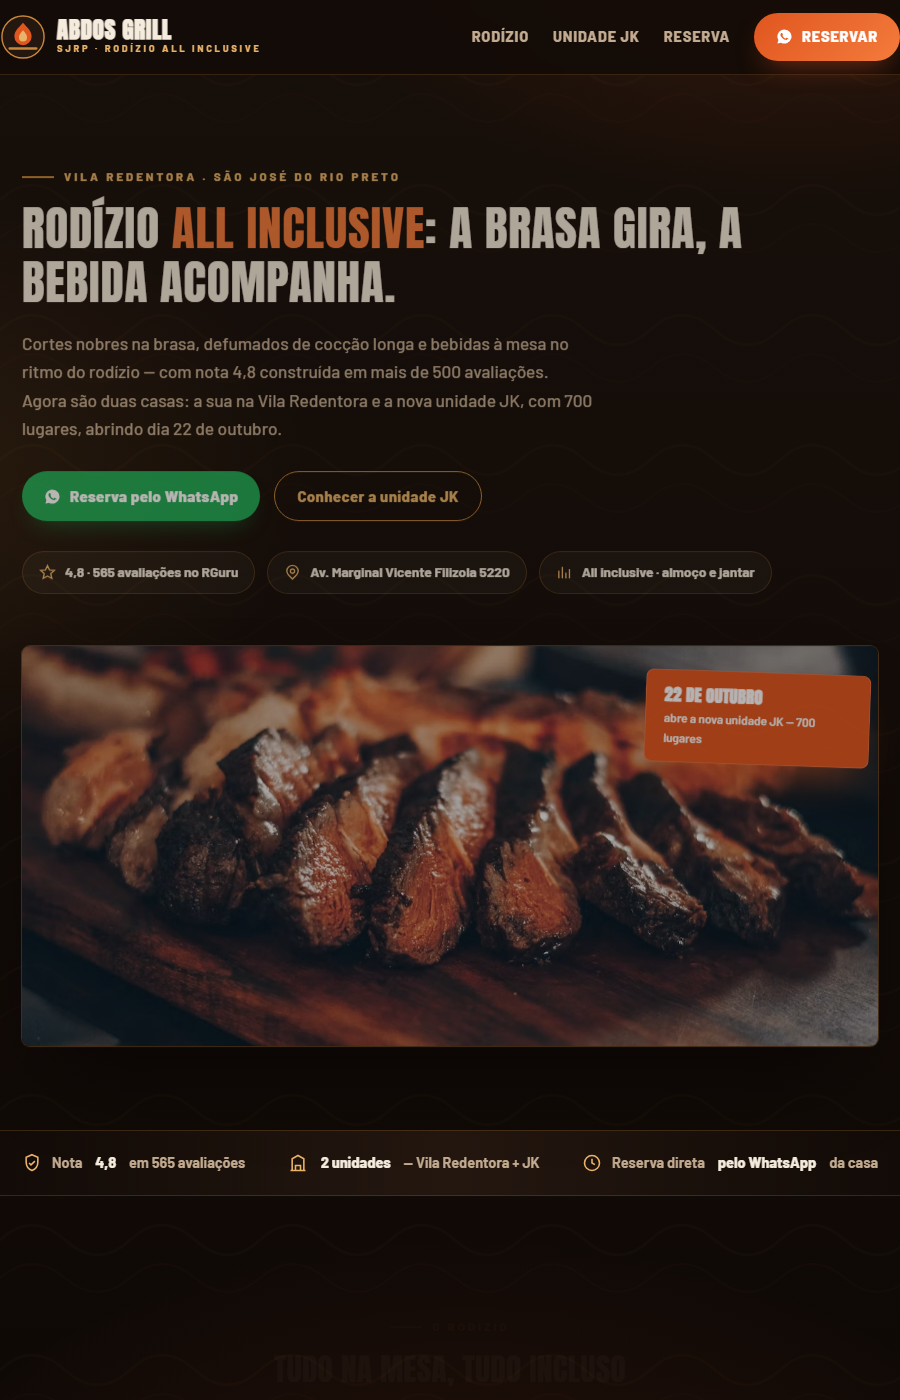
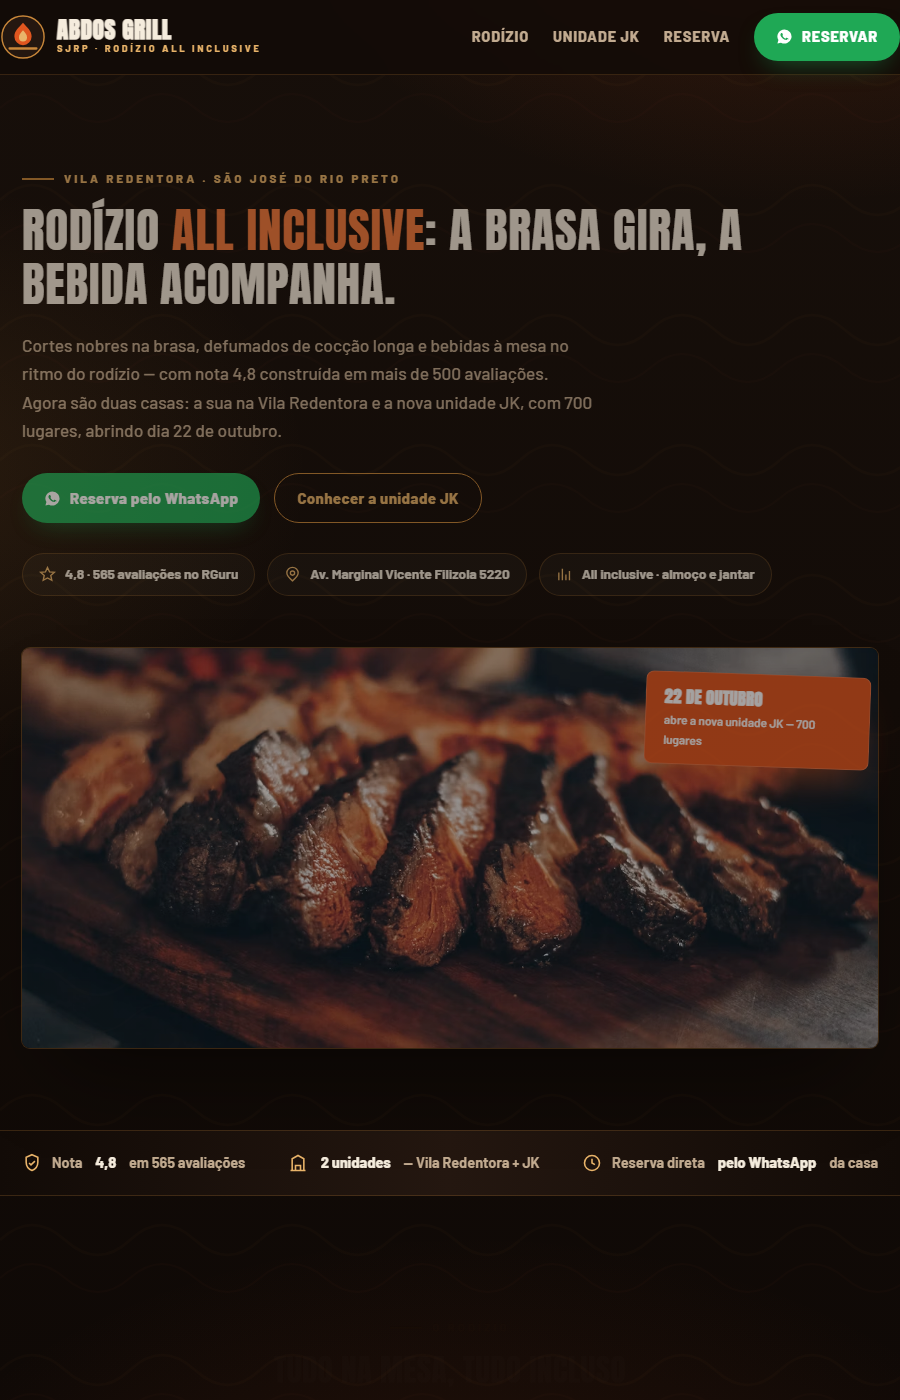
protos: publica abdos-grill,laser-center (gate R5: 0/10 8.5/10 )

diff --git a/p/laser-center/index.html b/p/laser-center/index.html
@@ -28,7 +28,7 @@
 </script>
 <link rel="preconnect" href="https://fonts.googleapis.com">
 <link rel="preconnect" href="https://fonts.gstatic.com" crossorigin>
-<link href="https://fonts.googleapis.com/css2?family=Cormorant+Garamond:wght@500;600;700&family=Manrope:wght@400;500;600;700;800&display=swap" rel="stylesheet">
+<link href="https://fonts.googleapis.com/css2?family=Cormorant+Garamond:ital,wght@0,500;0,600;0,700;1,500;1,600;1,700&family=Manrope:wght@400;500;600;700;800&display=swap" rel="stylesheet">
 <style>
 :root{
   --ink:#0e2a33;--ink2:#173d48;--petrol:#0f6b78;--aqua:#38b6bf;--aqua2:#8fdbe0;
@@ -54,7 +54,7 @@ a{color:inherit}
 /* ---------- header ---------- */
 header{position:sticky;top:0;z-index:50;background:rgba(248,245,239,.85);backdrop-filter:blur(12px);border-bottom:1px solid rgba(15,107,120,.15);transition:.35s}
 header.scrolled{box-shadow:0 14px 30px -18px rgba(14,42,51,.25);background:rgba(248,245,239,.97)}
-.nav{display:flex;align-items:center;justify-content:space-between;padding:12px 0}
+.nav{display:flex;align-items:center;justify-content:space-between;padding:12px 22px}
 .logo{display:flex;align-items:center;gap:11px;text-decoration:none}
 .logo svg{width:44px;height:44px}
 .logo b{font-family:'Cormorant Garamond';font-size:1.5rem;color:var(--ink);line-height:1;font-weight:700}
@@ -67,6 +67,7 @@ header.scrolled{box-shadow:0 14px 30px -18px rgba(14,42,51,.25);background:rgba(
 .btn svg{width:17px;height:17px;fill:currentColor}
 .btn-laser{background:linear-gradient(135deg,var(--laser),#a83460);box-shadow:0 12px 28px -12px rgba(195,61,107,.5)}
 @media(max-width:860px){.nav-links a:not(.btn){display:none}}
+@media(max-width:820px){.nav .btn{white-space:nowrap;font-size:.82rem;padding:10px 16px}.logo b{font-size:1.18rem}.logo svg{width:34px;height:34px}.logo span{display:none}}
 
 /* ---------- hero ---------- */
 .hero{position:relative;padding:76px 0 92px}
@@ -220,13 +221,13 @@ footer{border-top:1px solid rgba(15,107,120,.15);background:#fff;padding:36px 0 
         <a class="btn btn-laser" href="#cursos" style="background:transparent;border:1.5px solid var(--violet);color:var(--violet)!important;box-shadow:none">Quero fazer o curso</a>
       </div>
       <div class="hero-mini">
-        <span class="pill"><svg viewBox="0 0 24 24"><path d="M23 3a16 16 0 0 0-2 1 7 7 0 0 1-6.4 2.5A6.9 6.9 0 0 1 11 2.8a6.1 6.1 0 0 0 4.4 1.9 6.1 6.1 0 0 1-4.3-1.1 6.15 6.15 0 0 0 5.5 8.9q-1.9 1.1-4.4 1.1a9.9 9.9 0 0 0 15-13.5z"/></svg> 4,4 mil seguidores no Instagram</span>
+        <span class="pill"><svg viewBox="0 0 24 24"><rect x="3" y="3" width="18" height="18" rx="5"/><circle cx="12" cy="12" r="4.5"/><circle cx="17.3" cy="6.7" r="1"/></svg> 4,4 mil seguidores no Instagram</span>
         <span class="pill"><svg viewBox="0 0 24 24"><path d="M12 2l7 3v6c0 5-3.2 8.4-7 10-3.8-1.6-7-5-7-10V5z"/><path d="M8.5 12l2.3 2.3 4.7-4.6"/></svg> Método exclusivo FadeMaster</span>
         <span class="pill"><svg viewBox="0 0 24 24"><path d="M12 21c-5-4.2-8-7.2-8-11a8 8 0 0 1 16 0c0 3.8-3 6.8-8 11z"/><circle cx="12" cy="10" r="3"/></svg> Atendimento + cursos em Rio Preto</span>
       </div>
     </div>
     <div class="hero-art" data-reveal>
-      <div class="frame"><img src="https://images.unsplash.com/photo-1700760933574-9f0f4ea9aa3b?q=80&w=1200&auto=format&fit=crop" alt="Aplicação de depilação a laser nas pernas em cabine — imagem ilustrativa de banco de imagens" loading="eager"></div>
+      <div class="frame"><img src="https://images.unsplash.com/photo-1700760933574-9f0f4ea9aa3b?q=80&w=1200&auto=format&fit=crop" width="1200" height="1500" alt="Aplicação de depilação a laser nas pernas em cabine — imagem ilustrativa de banco de imagens" loading="eager"></div>
       <svg class="facho" viewBox="0 0 100 100" fill="none">
         <circle cx="50" cy="50" r="12" fill="#7a5ea8"/>
         <circle cx="50" cy="50" r="22" stroke="#38b6bf" stroke-width="2" stroke-opacity=".6"/>
@@ -255,7 +256,7 @@ footer{border-top:1px solid rgba(15,107,120,.15);background:#fff;padding:36px 0 
     </div>
     <div class="grid3">
       <div class="card" data-reveal>
-        <div class="ph"><span class="tag">Depilação</span><img src="https://images.unsplash.com/photo-1700760933941-3a06a28fbf47?q=80&w=900&auto=format&fit=crop" alt="Aplicador de laser com ponteiro de mira sobre a pele da perna — imagem ilustrativa de banco de imagens" loading="lazy"></div>
+        <div class="ph"><span class="tag">Depilação</span><img src="https://images.unsplash.com/photo-1700760933941-3a06a28fbf47?q=80&w=900&auto=format&fit=crop" width="900" height="1125" alt="Aplicador de laser com ponteiro de mira sobre a pele da perna — imagem ilustrativa de banco de imagens" loading="lazy"></div>
         <div class="bd">
           <h3>Depilação a laser</h3>
           <p>Axoilas, virilha, pernas, rosto, abdômen e costas, com protocolo por fototipo.</p>
@@ -266,7 +267,7 @@ footer{border-top:1px solid rgba(15,107,120,.15);background:#fff;padding:36px 0 
         </div>
       </div>
       <div class="card" data-reveal>
-        <div class="ph"><span class="tag r">Remoção</span><img src="https://images.unsplash.com/photo-1597852075234-fd721ac361d3?q=80&w=900&auto=format&fit=crop" alt="Tatuagem no braço — ilustração do problema que a remoção a laser resolve; imagem de banco de imagens" loading="lazy"></div>
+        <div class="ph"><span class="tag r">Remoção</span><img src="https://images.unsplash.com/photo-1597852075234-fd721ac361d3?q=80&w=900&auto=format&fit=crop" width="900" height="600" alt="Tatuagem no braço — ilustração do problema que a remoção a laser resolve; imagem de banco de imagens" loading="lazy"></div>
         <div class="bd">
           <h3>Tatuagem e micropigmentação</h3>
           <p>Remoção a laser de tatuagens que perderam o sentido e de micropigmentação de sobrancelha que saiu errada.</p>
@@ -277,7 +278,7 @@ footer{border-top:1px solid rgba(15,107,120,.15);background:#fff;padding:36px 0 
         </div>
       </div>
       <div class="card" data-reveal>
-        <div class="ph"><span class="tag v">Rosto</span><img src="https://images.unsplash.com/photo-1713085085470-fba013d67e65?q=80&w=900&auto=format&fit=crop" alt="Procedimento estético facial em cabine com profissional de luvas — imagem ilustrativa de banco de imagens" loading="lazy"></div>
+        <div class="ph"><span class="tag v">Rosto</span><img src="https://images.unsplash.com/photo-1713085085470-fba013d67e65?q=80&w=900&auto=format&fit=crop" width="900" height="600" alt="Procedimento estético facial em cabine com profissional de luvas — imagem ilustrativa de banco de imagens" loading="lazy"></div>
         <div class="bd">
           <h3>Estética facial com tecnologia</h3>
           <p>Cuidado com a pele do rosto usando equipamento de cabine, com avaliação antes de qualquer protocolo.</p>
@@ -300,7 +301,7 @@ footer{border-top:1px solid rgba(15,107,120,.15);background:#fff;padding:36px 0 
 
 <section id="cursos">
   <div class="container curso-grid">
-    <div class="curso-img" data-reveal><img src="https://images.unsplash.com/photo-1715848504087-11a748ce0058?q=80&w=1200&auto=format&fit=crop" alt="Turma em prática de curso profissionalizante de estética — imagem ilustrativa de banco de imagens" loading="lazy"></div>
+    <div class="curso-img" data-reveal><img src="https://images.unsplash.com/photo-1715848504087-11a748ce0058?q=80&w=1200&auto=format&fit=crop" width="1200" height="800" alt="Turma em prática de curso profissionalizante de estética — imagem ilustrativa de banco de imagens" loading="lazy"></div>
     <div class="curso-txt" data-reveal>
       <span class="kicker">Formação profissional</span>
       <h2>Aprenda o <em>FadeMaster</em> — a técnica que a casa criou</h2>

diff --git a/p/abdos-grill/index.html b/p/abdos-grill/index.html
@@ -50,7 +50,7 @@ a{color:inherit}
 /* ---------- header ---------- */
 header{position:sticky;top:0;z-index:50;background:rgba(18,11,7,.84);backdrop-filter:blur(12px);border-bottom:1px solid rgba(200,135,58,.2);transition:.35s}
 header.scrolled{box-shadow:0 14px 34px -18px rgba(0,0,0,.85);background:rgba(18,11,7,.96)}
-.nav{display:flex;align-items:center;justify-content:space-between;padding:13px 0}
+.nav{display:flex;align-items:center;justify-content:space-between;padding:13px 22px}
 .logo{display:flex;align-items:center;gap:11px;text-decoration:none}
 .logo svg{width:46px;height:46px}
 .logo b{font-family:'Anton';font-size:1.42rem;color:var(--creme);line-height:1;letter-spacing:.04em}
@@ -201,7 +201,7 @@ footer{border-top:1px solid rgba(200,135,58,.18);background:var(--tinta);padding
       <a href="#rodizio">Rodízio</a>
       <a href="#jk">Unidade JK</a>
       <a href="#reserva">Reserva</a>
-      <a class="btn btn-brasa" href="https://wa.me/5517991222768?text=Ol%C3%A1!%20Quero%20reservar%20uma%20mesa%20no%20Abdos%20Grill." target="_blank" rel="noopener">
+      <a class="btn" href="https://wa.me/5517991222768?text=Ol%C3%A1!%20Quero%20reservar%20uma%20mesa%20no%20Abdos%20Grill." target="_blank" rel="noopener">
         <svg viewBox="0 0 24 24"><path d="M12 2a10 10 0 0 0-8.6 15.1L2 22l5-1.3A10 10 0 1 0 12 2zm4.5 13.6c-.2.6-1.2 1.2-1.7 1.2-.4.1-1 .1-1.6-.1-.4-.1-.9-.3-1.5-.6-2.6-1.1-4.3-3.8-4.4-3.9-.1-.2-1-1.4-1-2.7s.7-1.9.9-2.1c.2-.3.5-.3.7-.3h.4c.2 0 .4 0 .6.4l.8 2c.1.2.1.4 0 .6l-.4.6c-.1.2-.3.3-.1.6.2.3.8 1.3 1.7 2.1 1.1 1 2 1.3 2.3 1.4.3.2.5.1.6-.1l.7-.8c.2-.3.4-.2.7-.1l1.9.9c.3.2.5.3.5.4.1.1.1.5-.1 1.1z"/></svg>
         Reservar
       </a>
